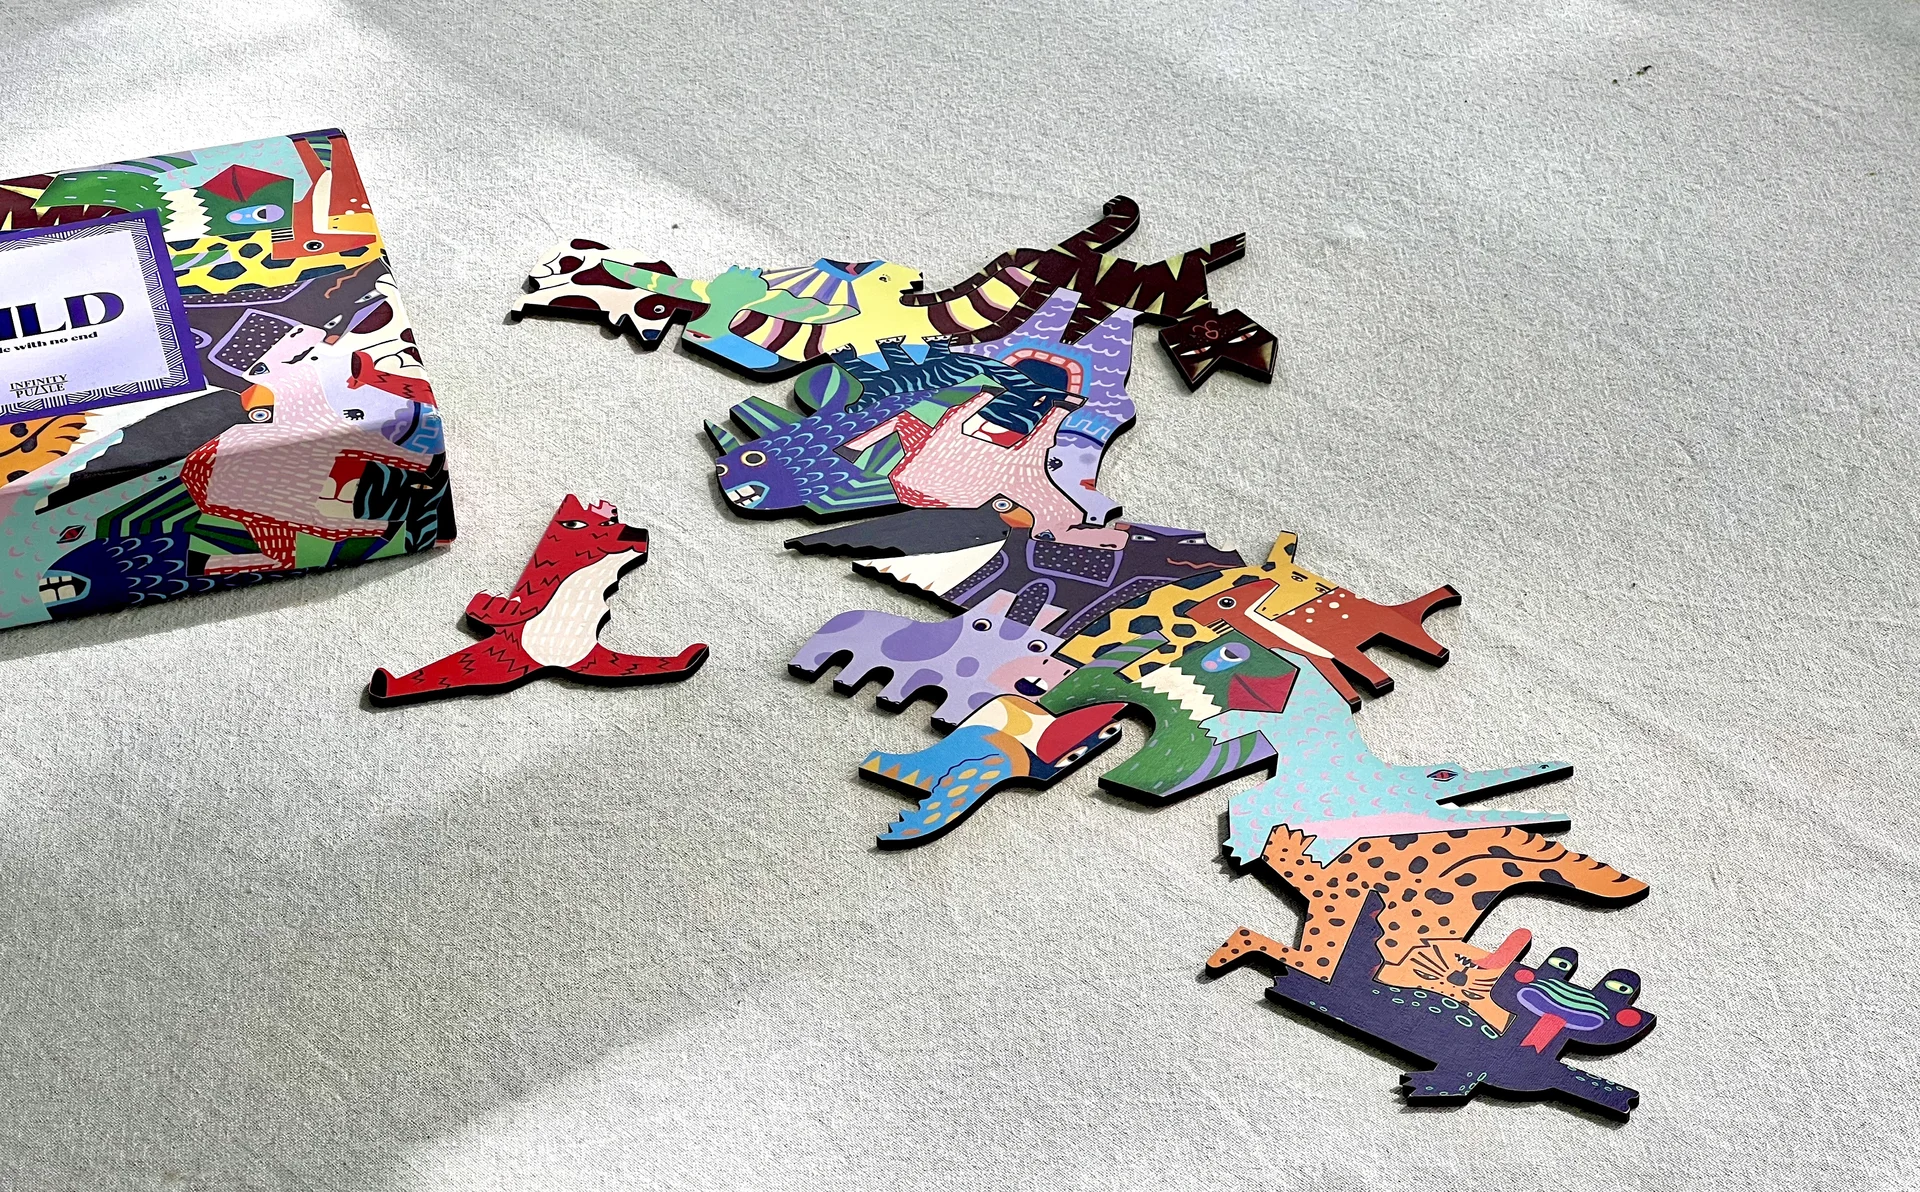
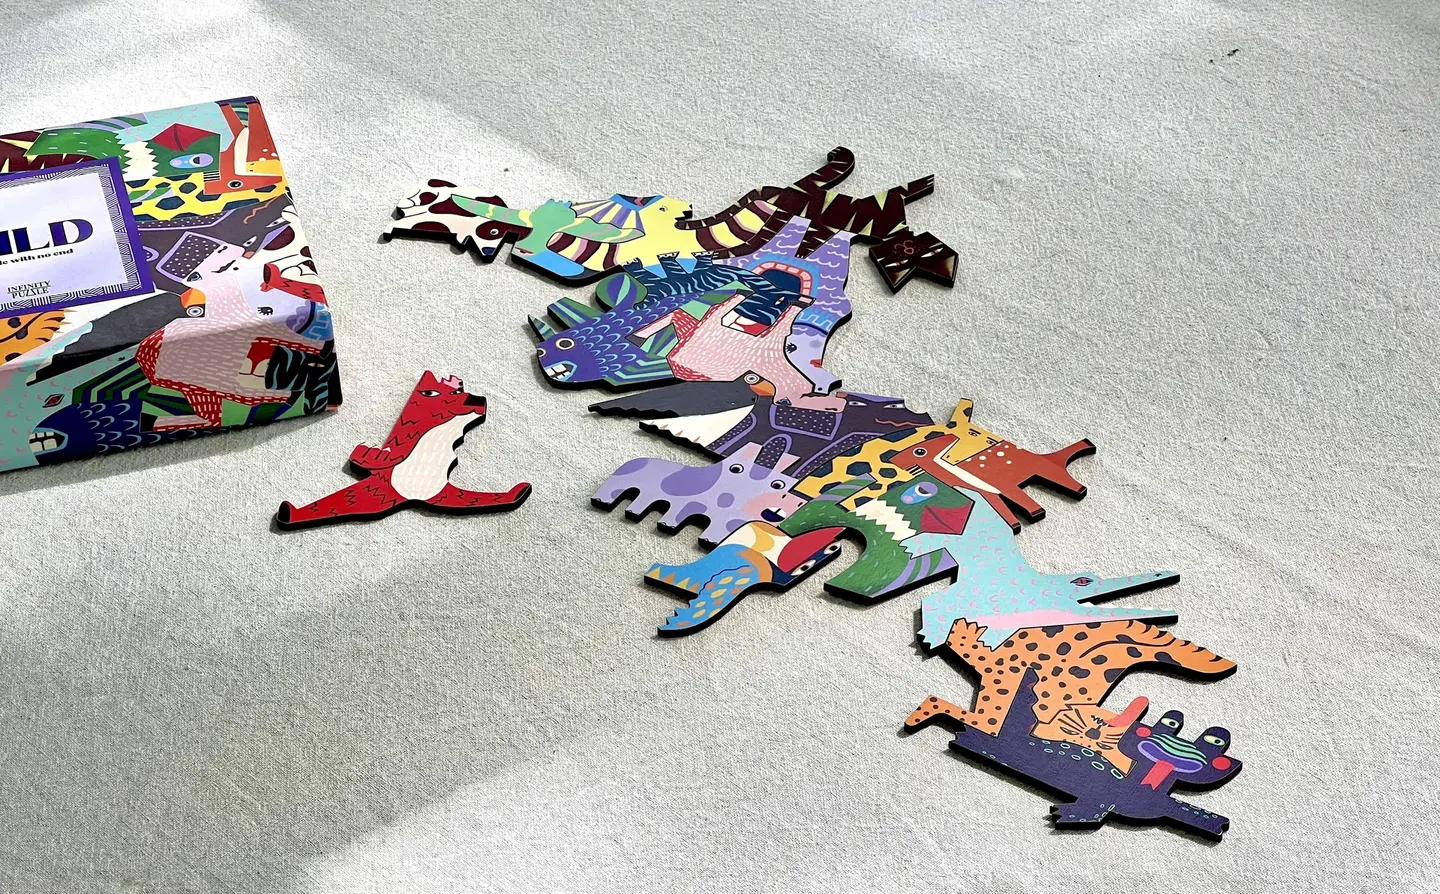
perf: komprimera videor och bilder
MP4: landscape 8.7MB→633KB, standing 8.2MB→707KB
Story chapters: 6.7MB JPG→339KB WebP
hero-main.webp: 954KB→380KB

diff --git a/components/hero/HeroPhotoSection.tsx b/components/hero/HeroPhotoSection.tsx
@@ -32,10 +32,10 @@ export default function HeroPhotoSection() {
   };
 
   const aspectRatio = isMobile ? '1000 / 1500' : '1500 / 1000';
-  const src = isMobile
+  const webmSrc = isMobile
     ? '/api/video/WILD_stopmotion_standing.webm'
     : '/api/video/WILD_stopmotion_landscape.webm';
-  const mp4 = isMobile
+  const mp4Src = isMobile
     ? '/api/video/WILD_stopmotion_standing.mp4'
     : '/api/video/WILD_stopmotion_landscape.mp4';
 
@@ -75,7 +75,7 @@ export default function HeroPhotoSection() {
 
           <video
             ref={videoRef}
-            key={src}
+            key={webmSrc}
             autoPlay
             muted
             loop
@@ -88,8 +88,8 @@ export default function HeroPhotoSection() {
               display: 'block',
             }}
           >
-            <source src={src} type="video/webm" />
-            <source src={mp4} type="video/mp4" />
+            <source src={webmSrc} type="video/webm" />
+            <source src={mp4Src}  type="video/mp4" />
           </video>
 
           {/* Gradient: subtle dark top, fade to cream at very bottom */}

diff --git a/components/story/StoryTimeline.tsx b/components/story/StoryTimeline.tsx
@@ -28,28 +28,28 @@ export default function StoryTimeline() {
       title: t('chapter1.title'),
       period: t('chapter1.period'),
       text: t('chapter1.text'),
-      image: '/images/story/chapter1.jpg',
+      image: '/images/story/chapter1.webp',
     },
     {
       number: t('chapter2.number'),
       title: t('chapter2.title'),
       period: t('chapter2.period'),
       text: t('chapter2.text'),
-      image: '/images/story/chapter2.jpg',
+      image: '/images/story/chapter2.webp',
     },
     {
       number: t('chapter3.number'),
       title: t('chapter3.title'),
       period: t('chapter3.period'),
       text: t('chapter3.text'),
-      image: '/images/story/chapter3.jpg',
+      image: '/images/story/chapter3.webp',
     },
     {
       number: t('chapter4.number'),
       title: t('chapter4.title'),
       period: t('chapter4.period'),
       text: t('chapter4.text'),
-      image: '/images/story/chapter4.jpg',
+      image: '/images/story/chapter4.webp',
     },
   ];
 